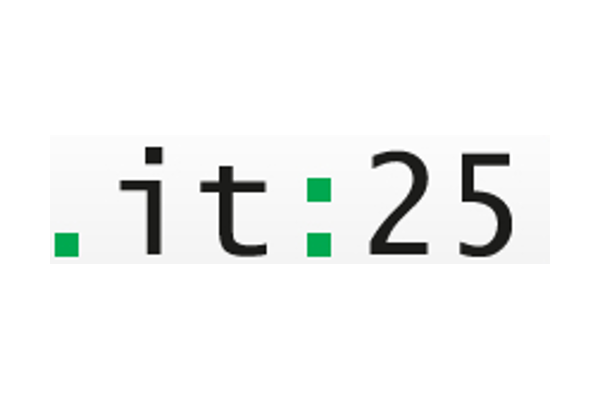
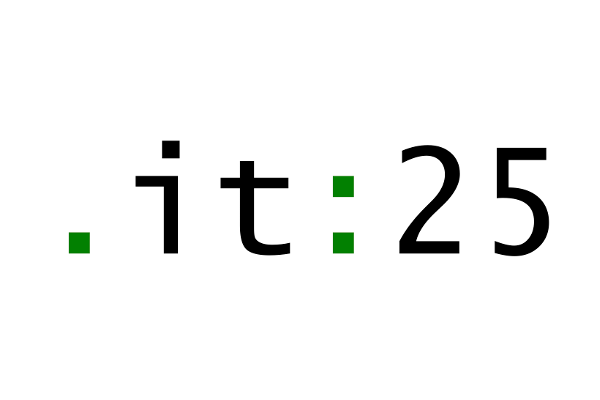
add IT25

diff --git a/page-partners.php b/page-partners.php
@@ -6,6 +6,7 @@
 	});
 </script>
 </head>
+
 <section class="hero-section">
 	<div class="background partners-background">
 		<div class="container">
@@ -16,6 +17,7 @@
 		</div>
 	</div>
 </section>
+
 <section class="section--intro">
 	<div class="container">
 		<div class="row">
@@ -25,6 +27,7 @@
 		</div>
 	</div>
 </section>
+
 <section class="section--providers">
 	<div class="wrap container partnergroup">
 		<div class="row">
@@ -53,6 +56,7 @@
 				<p  class="partnertext">DASEQ is delivering Nextcloud as integral part of their OpenSource solution framework which consists of open source technology, services and training as well as security solutions.</p>
 			</div>
 		</div>
+		
 		<div class="row">
 			<div class="col-md-4">
 				<a href="https://www.etes.de/" target="_blank" title="etes">
@@ -73,13 +77,14 @@
 				<p  class="partnertext">In a world where business depends on ICT, 360 ICT delivers garantees in the form of hard SLA's while remaining as approachable as a local ICT company for small and medium businesses. Our strength: solid, solution-focused and personal.</p>
 			</div>
 		</div>
+		
 		<div class="row">
-			<!--<div class="col-md-4">
+			<div class="col-md-4">
 				<a href="https://www.it25.de/" target="_blank" title="IT25">
 				<img class="img-responsive" src="<?php bloginfo('template_directory'); ?>/assets/img/partners/it25.png" title="it25" />
 				</a>
-				<p  class="partnertext">Since 2016 IT25 GmbH has specialized in email and groupware solutions, with a focus on the relevant products and tools in the market and a strong know-how in these core products.</p>
-			</div>-->
+				<p  class="partnertext">Founded in 2006 IT25 GmbH provides solutions for collaboration and exchange of information with a strong focus on supporting customers to install, integrate and safely operate on-premise and cloud based systems.</p>
+			</div>
 			<div class="col-md-4">
 				<a href="http://www.netcloud.ch/" target="_blank" title="Netcloud AG">
 				<img class="img-responsive" src="<?php bloginfo('template_directory'); ?>/assets/img/partners/netcloud.png" title="netcloud logo" />
@@ -92,14 +97,15 @@
 				</a>
 				<p  class="partnertext">regio iT is a service provider with over 300 employees delivering solutions for communities, schools, non-profits as well as customers in the energy production and distribution space.</p>
 			</div>
+		</div>
+		
+		<div class="row">
 			<div class="col-md-4">
 				<a href="https://www.sendin.nl/nextcloud/" target="_blank" title="Sendin">
 				<img class="img-responsive" src="<?php bloginfo('template_directory'); ?>/assets/img/partners/sendin.png" title="sendin logo" />
 				</a>
 				<p  class="partnertext">Sendin is a Dutch company specializing in the storage and shipping of files, building simple solutions so users need no manual. Our clients use our solutions to make their files and documents accessible in the cloud but also for paperless meetings and more.</p>
 			</div>
-		</div>
-		<div class="row">
 			<div class="col-md-4">
 				<a href="https://www.stylez.co.jp/" target="_blank" title="Stylez">
 				<img class="img-responsive" src="<?php bloginfo('template_directory'); ?>/assets/img/partners/stylez.png" title="stylez logo" />
@@ -112,15 +118,15 @@
 				</a>
 				<p  class="partnertext">TeeBase UK Ltd offers an arsenal of devices and services for digital security to protect your data and intellectual property even when using the Internet. Be free from hackers, malware and ransomware that destroy shareholder value and ruin careers</p>
 			</div>
+		</div>
+		
+		<div class="row">
 			<div class="col-md-4">
 				<a href="https://www.univention.de/" target="_blank" title="Univention">
 				<img class="img-responsive" src="<?php bloginfo('template_directory'); ?>/assets/img/partners/univention.png" title="Univention" />
 				</a>
 				<p  class="partnertext">Univention is a leading provider of Open Source products for running and managing whole IT infrastructures and applications. Our core product is Univention Corporate Server (UCS), a flexible, effective alternative to Microsoft solutions with AD functions, a strong identity management and a wide range of applications in our App Center.</p>
 			</div>
-		</div>
-		
-		<div class="row">
 <!--			<div class="col-md-4">
 				<a href="https://www.omnis-systems.com/en/" target="_blank" title="Omnis Systems Ltd">
 				<img class="img-responsive" src="<?php bloginfo('template_directory'); ?>/assets/img/partners/omnis.png" title="Omnis Systems logo" />
@@ -138,6 +144,7 @@
 		</div>
 	</div>
 </section>
+
 <section class="section--partners">
 	<div class="wrap container partnergroup">
 		<div class="row">
@@ -164,6 +171,7 @@
 				<p  class="partnertext">Collabora Productivity is the world’s leading LibreOffice services company and one of the biggest contributors to the LibreOffice for desktop codebase. It is the driving force behind putting LibreOffice in the Cloud with Collabora Online.</p>
 			</div>
 		</div>
+		
 		<div class="row">
 			<div class="col-md-4">
 				<a href="http://www.openinventionnetwork.com" target="_blank" title="OIN">
@@ -184,6 +192,7 @@
 				<p  class="partnertext">TWS is the official provider of Nexcloud iOS Client. The company has its headquarters in Italy and it mainly deals with design and development of web-based application software.</p>
 			</div>
 		</div>
+		
 		<div class="row">
 			<div class="col-md-4">
 				<a href="http://wdlabs.wd.com/products/wd-pidrive-1tb-kit/" target="_blank" title="Western Digital Labs">
